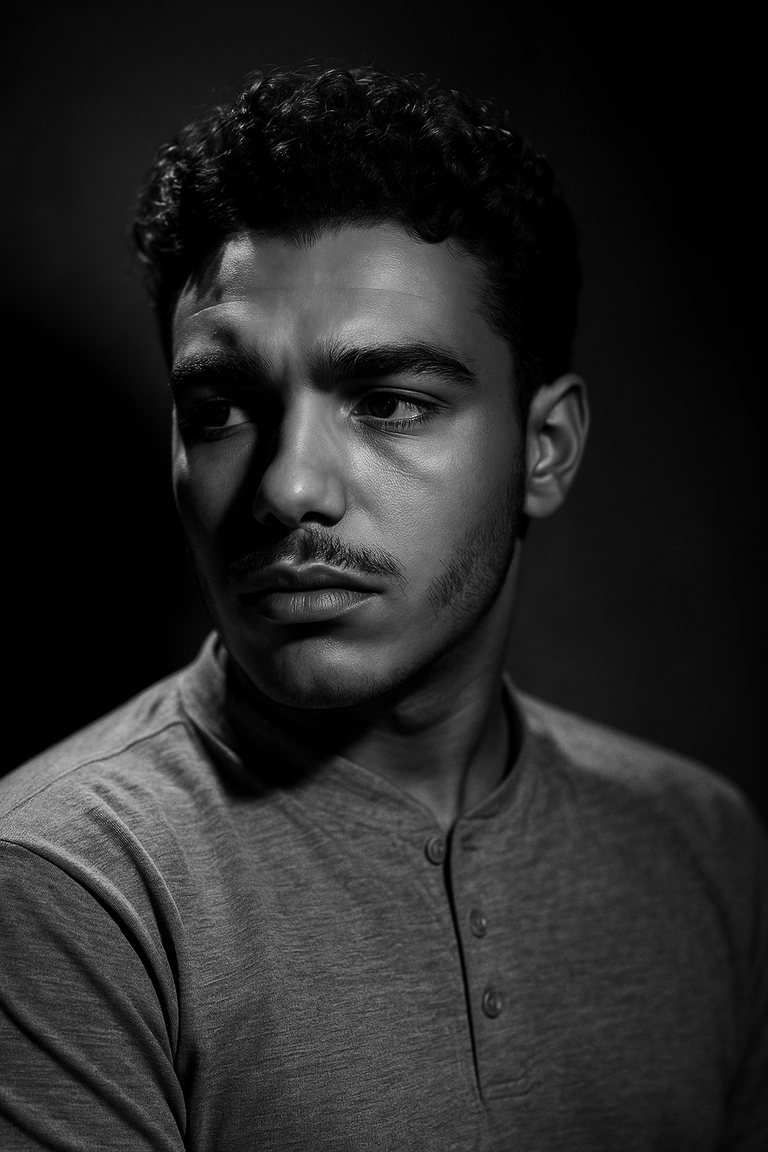
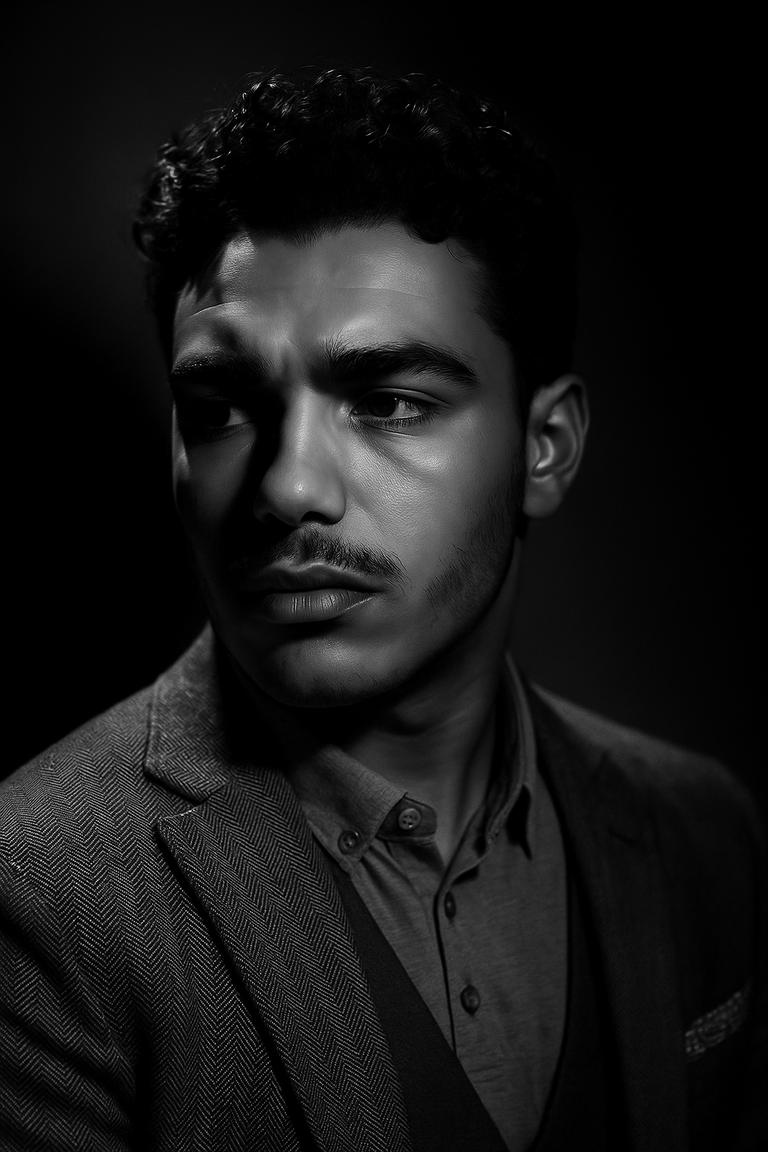
Add files via upload

diff --git a/index.html b/index.html
@@ -436,7 +436,7 @@
   <div class="content">
     <article class="profile">
       <div class="profile__wrapper">
-        <img src="assets/image/founder.jpg" alt="Profile Picture" class="background-img">
+        <img src="assets/image/founder.png" alt="Profile Picture" class="background-img">
         <div class="profile__content">
           <h2>Youssef Yakoubi <img src="assets/image/verified.svg" alt="Verified Badge" class="verified"></h2>
           <p class="description">
